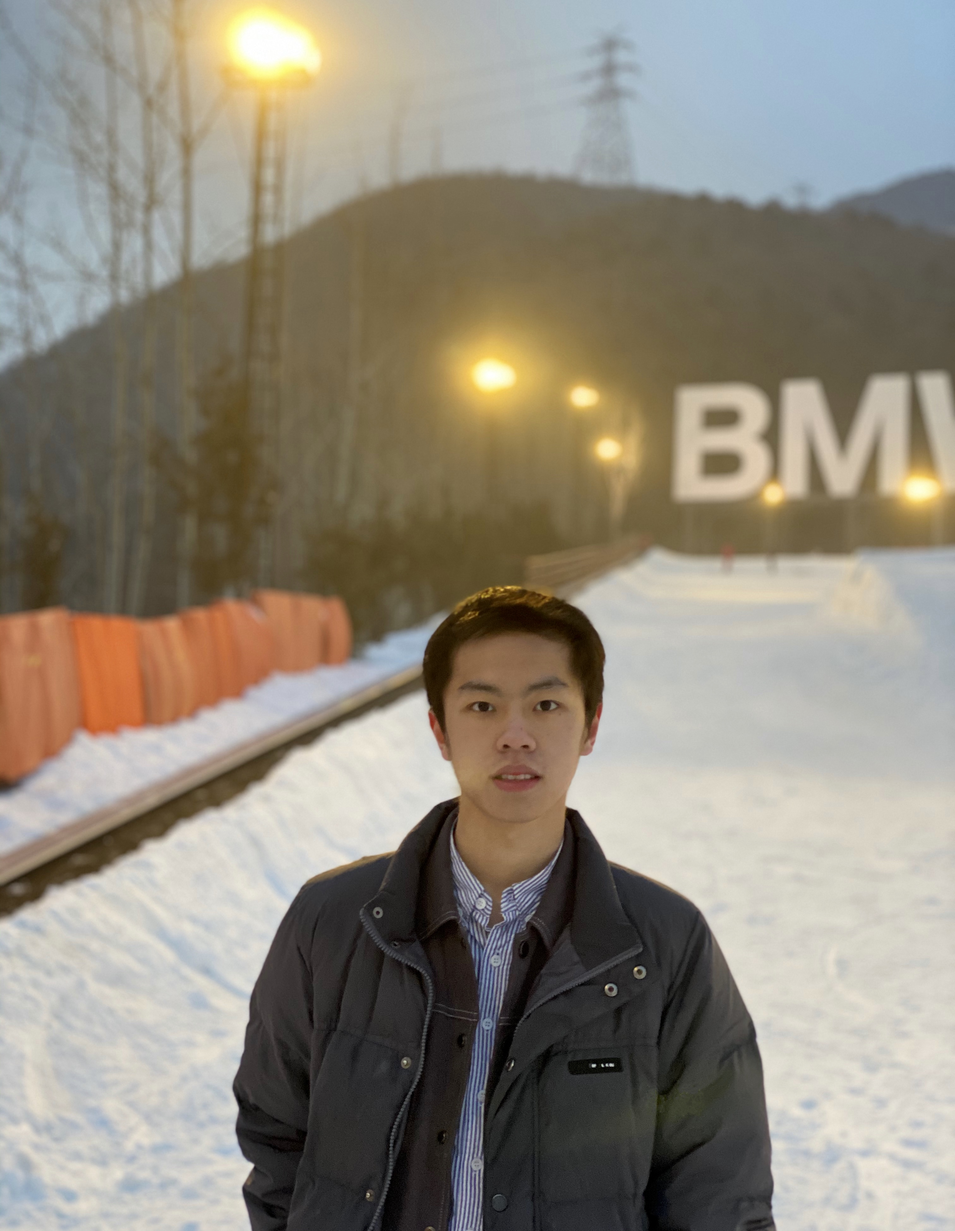
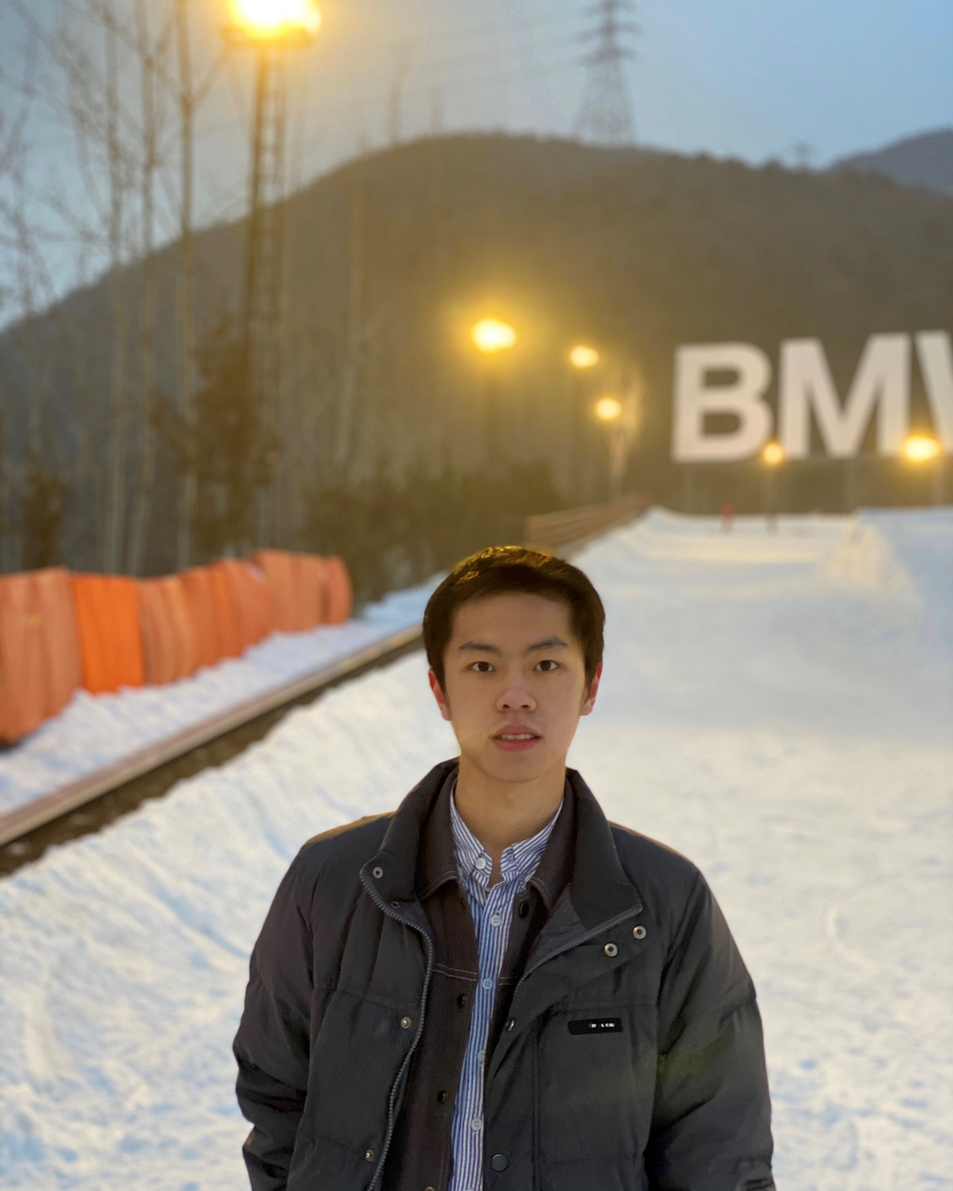
update

diff --git a/index.html b/index.html
@@ -48,7 +48,7 @@
       </header>
       <section>
       <h3>
-      <img src="myphoto.jpg" height="250" width="325"></h3>
+      <img src="myphoto.jpg" height="376" width="302"></h3>
       <p>I am currently a graduate student in Economics at <a href="http://www.cfau.edu.cn//">China Foreign Affairs University</a>. I graduated with a B.A in Economics from <a href="http://www.cufe.edu.cn/">Central University of Finance and Economics</a> in July 2019.</p>
       <p>My research interests include labor economics, public economics, development economics, and the intersection of machine learning and applied econometrics. And I desire for an opportunity as a part-time research assistant and to explore in more depth in economics.</p>
       </section>
